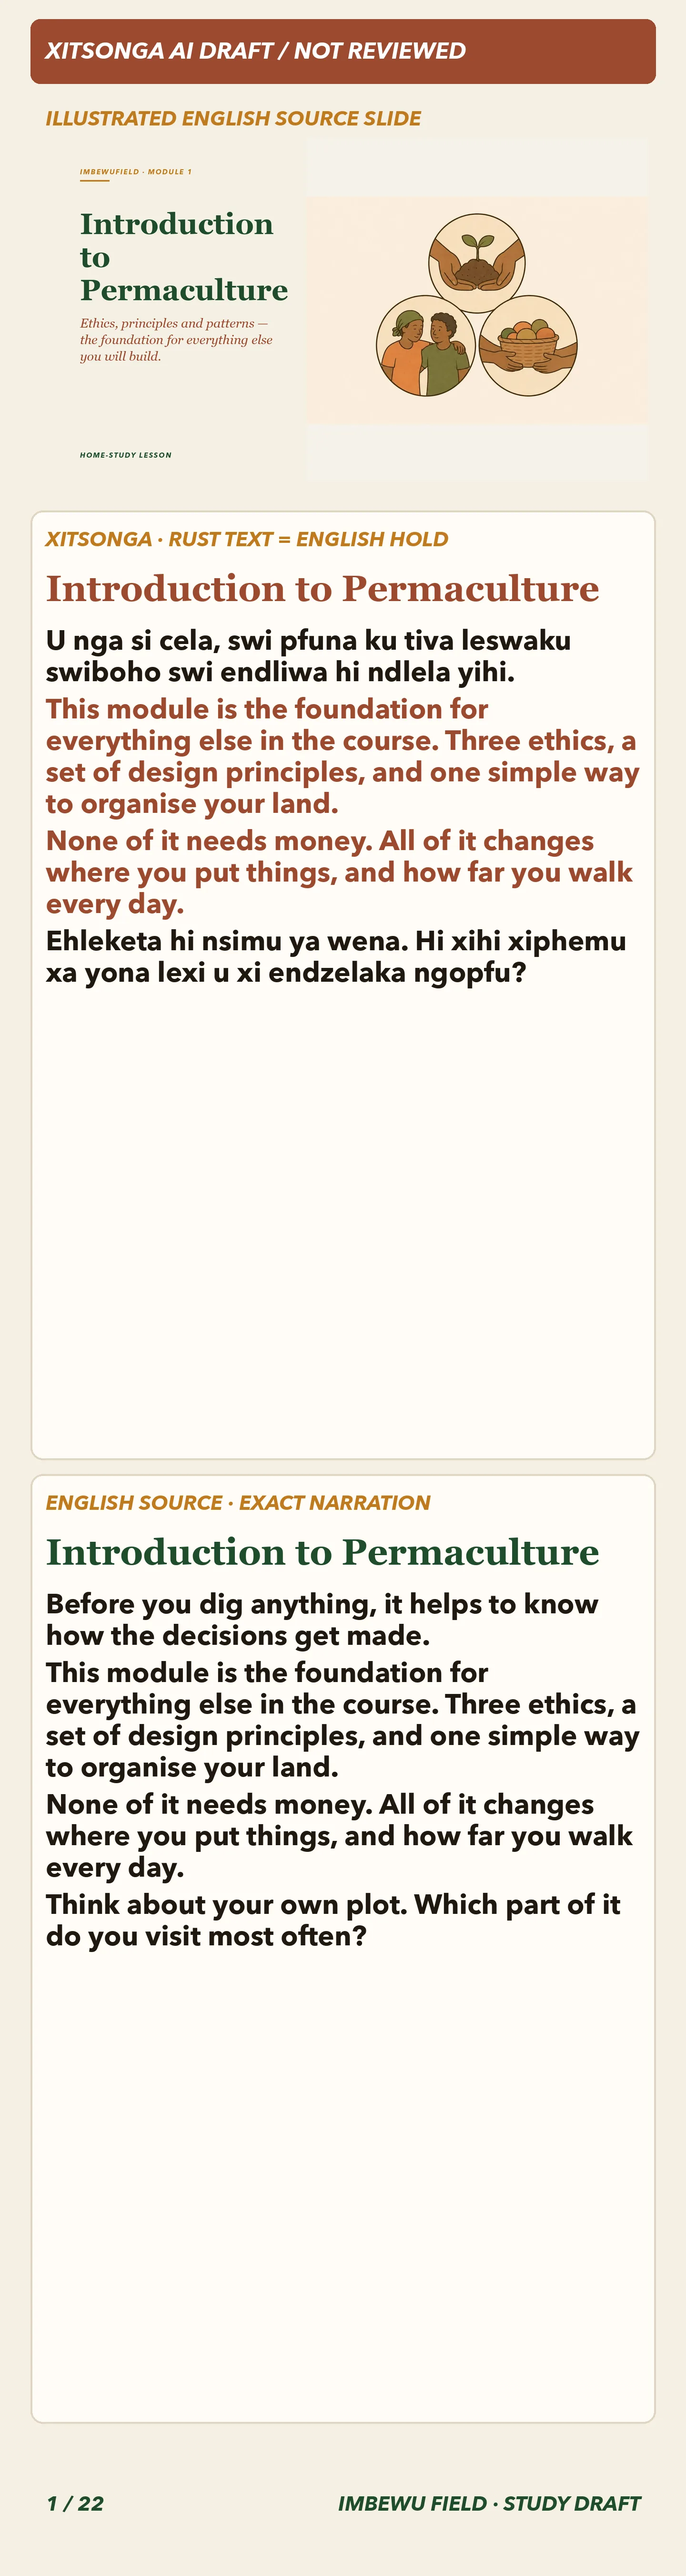
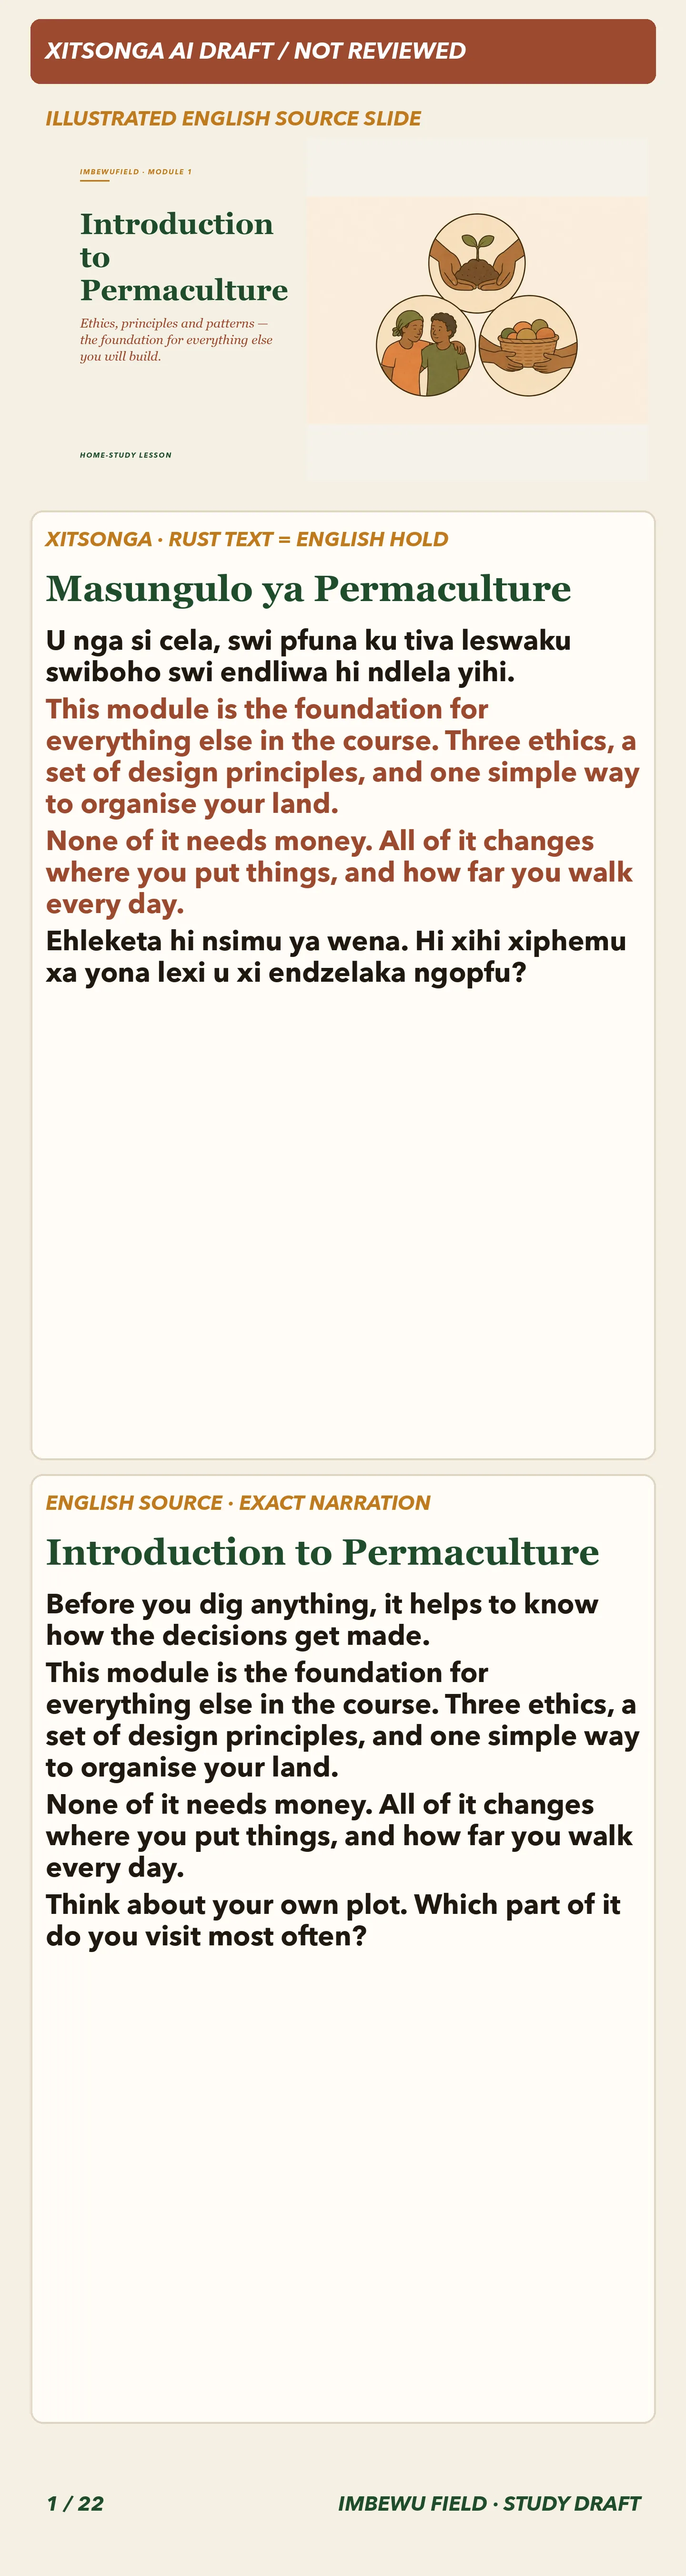
Add provisional Xitsonga Introduction cover title

Changed region(s): [[0.0625, 0.2178, 0.875, 0.2489]]

diff --git a/tests/paired-draft-slides.test.ts b/tests/paired-draft-slides.test.ts
@@ -65,7 +65,11 @@ test('regional Introduction orientation and ethics frames hold uncertain farming
       .filter(Boolean));
     assert.deepEqual(drafted, ['1:1', '1:4', '2:2', '3:1', '4:1', '5:1', '6:1']);
     assert.deepEqual(slides.filter((slide: any) => slide.target.heading.status === 'draft')
-      .map((slide: any) => slide.n), lang === 've' ? [2, 4, 5, 6] : [2, 3, 4, 5, 6]);
+      .map((slide: any) => slide.n), lang === 've' ? [2, 4, 5, 6] : [1, 2, 3, 4, 5, 6]);
+    if (lang === 'ts') {
+      assert.equal(slides[0].target.heading.text, 'Masungulo ya Permaculture');
+      assert.equal(slides[0].english.heading, 'Introduction to Permaculture');
+    }
     for (const p of [0, 2, 3]) assert.equal(slides[1].target.body[p].status, 'english-hold',
       `slide 2 ${lang}: the spade, land-work contrast and work question need a local check`);
     for (const part of slides[2].target.body.slice(1)) assert.equal(part.status, 'english-hold',

diff --git a/lib/course-asset-sizes.ts b/lib/course-asset-sizes.ts
@@ -677,7 +677,7 @@ export const COURSE_ASSET_SIZES: Readonly<Record<string, number>> = Object.freez
   '/course-decks/intro-permaculture/st/slide-20.webp': 403192,
   '/course-decks/intro-permaculture/st/slide-21.webp': 192792,
   '/course-decks/intro-permaculture/st/slide-22.webp': 231466,
-  '/course-decks/intro-permaculture/ts/slide-01.webp': 268576,
+  '/course-decks/intro-permaculture/ts/slide-01.webp': 265008,
   '/course-decks/intro-permaculture/ts/slide-02.webp': 266810,
   '/course-decks/intro-permaculture/ts/slide-03.webp': 246212,
   '/course-decks/intro-permaculture/ts/slide-04.webp': 470606,
